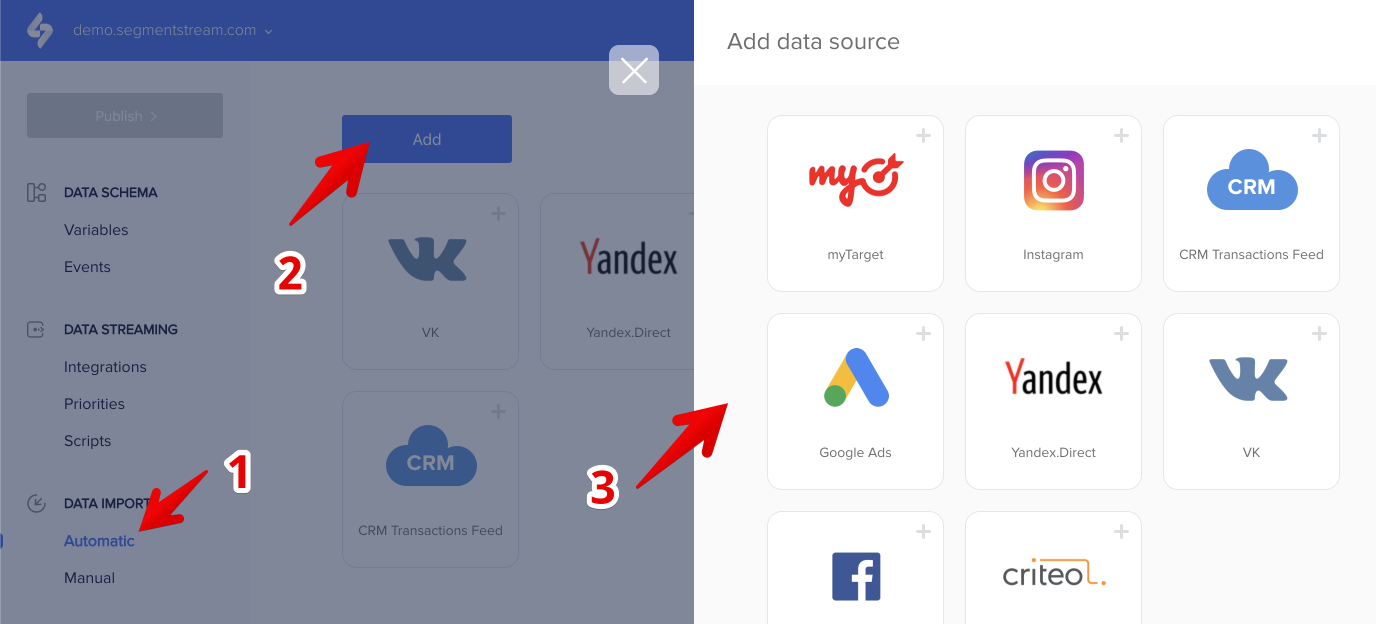
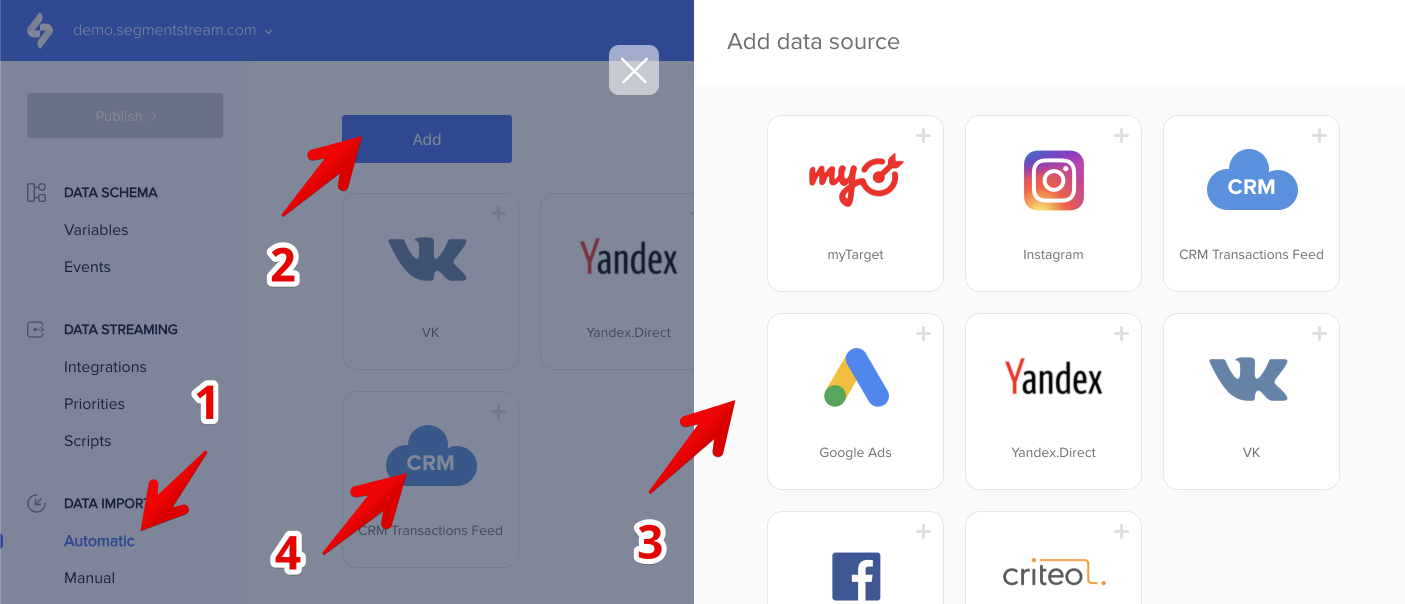
datasource adding image update

diff --git a/_docs/ru/datadownload/index.md b/_docs/ru/datadownload/index.md
@@ -2,7 +2,7 @@
 layout: page
 section: datadownloadRU
 title: "Обзор"
-order: 1
+order: 0
 ---
 
 >ВНИМАНИЕ! Для активации данного функционала необходимо включить и настроить интеграцию DDManager Streaming.
@@ -11,6 +11,6 @@ order: 1
 
 ![](/img/adding_datasource.png)
 
-Для того, чтобы подключить новый источник данных, необходимо перейти в раздел "ЗАГРУЗКА ДАННЫХ → Автоматическая" (1), нажать на кнопку "Добавить" (2) выбрать тип источника данных. Новый источник данных появится в списке источников (3).
+Для того, чтобы подключить новый источник данных, необходимо перейти в раздел "ЗАГРУЗКА ДАННЫХ → Автоматическая" (1), нажать на кнопку "Добавить" (2) выбрать тип источника данных из меню (3). Новый источник данных появится в списке источников (4).
 
 Далее надо следовать инструкциям настройки выбранного типа источника данных.
